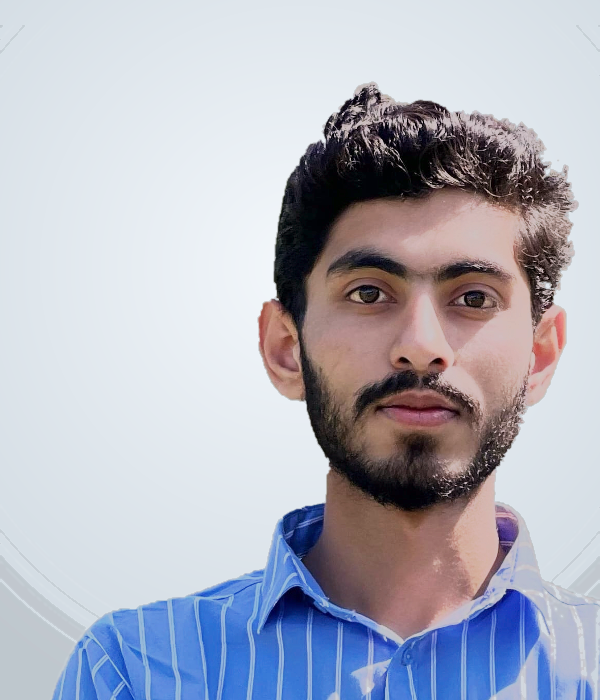
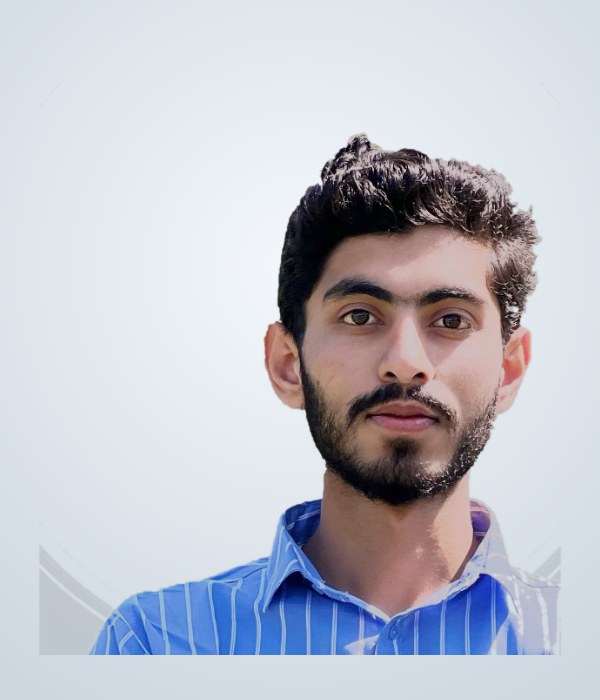
fix: adjust team portrait headroom to prevent cropping, set eager loading, and optimize full mobile responsiveness

diff --git a/style.css b/style.css
@@ -1487,10 +1487,10 @@ body::after {
 
 .team-photo-frame {
   width: 100%;
-  aspect-ratio: 1 / 1.12;
+  aspect-ratio: 6 / 7;
   border-radius: 18px;
   overflow: hidden;
-  background: radial-gradient(circle at 50% 40%, #FFFFFF 0%, #E9EFF5 100%);
+  background: radial-gradient(circle at 50% 35%, #FFFFFF 0%, #E9EFF5 100%);
   border: 1px solid rgba(226, 232, 240, 0.85);
   position: relative;
   display: flex;
@@ -1503,14 +1503,14 @@ body::after {
   width: 100%;
   height: 100%;
   object-fit: cover;
-  object-position: center top;
+  object-position: center center;
   display: block;
   transition: transform 0.38s cubic-bezier(0.16, 1, 0.3, 1);
   will-change: transform;
 }
 
 .team-card:hover .team-photo {
-  transform: scale(1.035);
+  transform: scale(1.03);
 }
 
 .team-specialty-tag {
@@ -1520,7 +1520,7 @@ body::after {
   display: inline-flex;
   align-items: center;
   gap: 6px;
-  background: rgba(255, 255, 255, 0.92);
+  background: rgba(255, 255, 255, 0.94);
   backdrop-filter: blur(8px);
   -webkit-backdrop-filter: blur(8px);
   border: 1px solid rgba(226, 232, 240, 0.95);
@@ -1589,20 +1589,83 @@ body::after {
   margin-top: 36px;
 }
 
+/* Responsive Team Breakpoints */
 @media (max-width: 1024px) {
   .team-cards-grid {
-    grid-template-columns: repeat(2, 1fr);
-    gap: 20px;
+    grid-template-columns: repeat(3, 1fr);
+    gap: 16px;
+  }
+  .team-card {
+    padding: 14px 14px 20px 14px;
+  }
+  .team-member-name {
+    font-size: 1.15rem;
+  }
+  .team-member-bio {
+    font-size: 0.88rem;
   }
 }
 
-@media (max-width: 768px) {
+@media (max-width: 860px) {
   .team-cards-grid {
     grid-template-columns: 1fr;
-    gap: 20px;
+    max-width: 440px;
+    margin: 0 auto;
+    gap: 22px;
+  }
+  .team-header {
+    text-align: center;
+    margin: 0 auto 30px auto;
+  }
+  .team-main-subtitle {
+    margin: 0 auto;
+  }
+  .team-card {
+    padding: 16px 16px 22px 16px;
+  }
+}
+
+@media (max-width: 480px) {
+  .team-section {
+    margin-bottom: 44px;
   }
   .team-main-title {
-    font-size: 1.85rem;
+    font-size: 1.65rem;
+    line-height: 1.22;
+  }
+  .team-main-subtitle {
+    font-size: 0.95rem;
+  }
+  .team-cards-grid {
+    max-width: 100%;
+    gap: 18px;
+  }
+  .team-card {
+    padding: 12px 12px 18px 12px;
+    border-radius: 20px;
+  }
+  .team-photo-frame {
+    border-radius: 16px;
+  }
+  .team-specialty-tag {
+    bottom: 10px;
+    left: 10px;
+    font-size: 0.65rem;
+    padding: 3px 8px;
+  }
+  .team-member-name {
+    font-size: 1.15rem;
+  }
+  .team-member-role {
+    font-size: 0.82rem;
+  }
+  .team-member-bio {
+    font-size: 0.86rem;
+    line-height: 1.55;
+  }
+  .team-bottom-cta .btn-pill {
+    width: 100%;
+    justify-content: center;
   }
 }
 
@@ -2905,3 +2968,71 @@ body::after {
     text-align: center;
   }
 }
+
+/* ==========================================================================
+   EXTRA MOBILE RESPONSIVENESS (Phones under 480px / 375px)
+   ========================================================================== */
+@media (max-width: 480px) {
+  body {
+    padding: 8px 6px 40px 6px;
+  }
+  .canvas-frame {
+    padding: 16px 12px 36px 12px;
+    border-radius: 16px;
+  }
+  .navbar {
+    padding: 10px 12px;
+    border-radius: 14px;
+    margin-bottom: 24px;
+  }
+  .brand-text {
+    font-size: 1.15rem;
+  }
+  .nav-action .btn-pill {
+    padding: 6px 11px;
+    font-size: 0.74rem;
+  }
+  .hero-title {
+    font-size: 1.75rem;
+    line-height: 1.15;
+  }
+  .hero-subtitle {
+    font-size: 0.92rem;
+  }
+  .fanned-cards-stage {
+    height: 290px;
+  }
+  .fanned-card {
+    width: 240px;
+    padding: 7px;
+  }
+  .card-pos-1 { transform: translate(-72px, 12px) rotate(-5deg) scale(0.85); }
+  .card-pos-2 { transform: translate(-36px, 6px) rotate(-2.5deg) scale(0.92); }
+  .card-pos-3 { transform: translate(0, 0) rotate(0deg) scale(1); }
+  .card-pos-4 { transform: translate(36px, 6px) rotate(2.5deg) scale(0.92); }
+  .card-pos-5 { transform: translate(72px, 12px) rotate(5deg) scale(0.85); }
+
+  .benefits-section {
+    padding: 32px 0 16px 0;
+  }
+  .benefits-main-title {
+    font-size: 1.6rem;
+    line-height: 1.2;
+  }
+  .benefits-header-desc {
+    font-size: 0.92rem;
+  }
+  .benefit-ref-card {
+    padding: 16px 14px;
+  }
+  .benefit-mockup-viewport {
+    height: 230px;
+  }
+  .audit-step-card {
+    padding: 18px 14px;
+  }
+  .audit-title {
+    font-size: 1.45rem;
+  }
+}
+

diff --git a/index.html b/index.html
@@ -14,7 +14,7 @@
   <link rel="preconnect" href="https://fonts.googleapis.com">
   <link rel="preconnect" href="https://fonts.gstatic.com" crossorigin>
   <link href="https://fonts.googleapis.com/css2?family=Plus+Jakarta+Sans:wght@400;500;600;700;800&family=Inter:wght@400;500;600;700;800&display=swap" rel="stylesheet">
-  <link rel="stylesheet" href="style.css?v=26">
+  <link rel="stylesheet" href="style.css?v=27">
 </head>
 <body>
 
@@ -467,7 +467,7 @@
           <!-- Card 1: CEO Abdullah -->
           <div class="team-card">
             <div class="team-photo-frame">
-              <img src="assets/images/team/ceo_abdullah_studio.webp" alt="Muhammad Abdullah — Founder & CEO" class="team-photo" width="600" height="700" loading="lazy" decoding="async">
+              <img src="assets/images/team/ceo_abdullah_studio.webp" alt="Muhammad Abdullah — Founder & CEO" class="team-photo" width="600" height="700" loading="eager" decoding="async">
               <div class="team-specialty-tag">
                 <span class="specialty-dot"></span>
                 <span>Liquid Architecture</span>
@@ -488,7 +488,7 @@
           <!-- Card 2: CTO Bilal -->
           <div class="team-card">
             <div class="team-photo-frame">
-              <img src="assets/images/team/cto_bilal_studio.webp" alt="Muhammad Bilal — Co-Founder & CTO" class="team-photo" width="600" height="700" loading="lazy" decoding="async">
+              <img src="assets/images/team/cto_bilal_studio.webp" alt="Muhammad Bilal — Co-Founder & CTO" class="team-photo" width="600" height="700" loading="eager" decoding="async">
               <div class="team-specialty-tag">
                 <span class="specialty-dot"></span>
                 <span>Autonomous AI Systems</span>
@@ -509,7 +509,7 @@
           <!-- Card 3: COO Umar -->
           <div class="team-card">
             <div class="team-photo-frame">
-              <img src="assets/images/team/coo_umar_studio.webp" alt="Muhammad Umar — Co-Founder & COO" class="team-photo" width="600" height="700" loading="lazy" decoding="async">
+              <img src="assets/images/team/coo_umar_studio.webp" alt="Muhammad Umar — Co-Founder & COO" class="team-photo" width="600" height="700" loading="eager" decoding="async">
               <div class="team-specialty-tag">
                 <span class="specialty-dot"></span>
                 <span>Unit Economics & Recovery</span>
